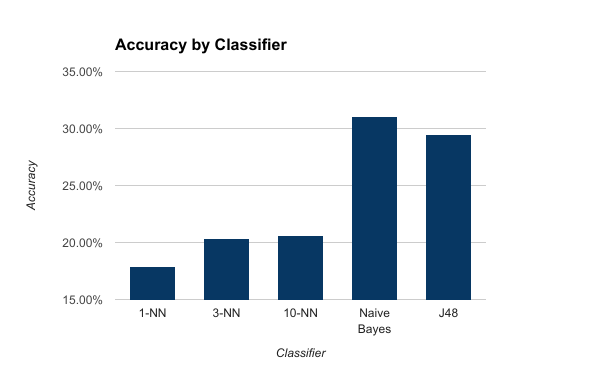
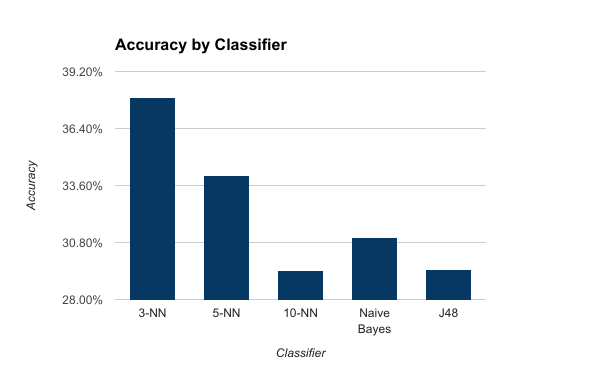
changed classifier data

diff --git a/results.html b/results.html
@@ -59,7 +59,7 @@
 
 
 									<h3 class="major">Algorithms</h3>
-									<p>A Naive Bayes classifier was used to predict the popularity of coupons, as it had the best results with the training data, getting 31.065% popularity correct, whereas the J48 decision tree predicted 29.475% of popularity categories correctly. Naive Bayes was useful because we believe that the attributes of the data are largely independent from each other.</p>
+									<p>A 3-Nearest Neighbors classifier was used to predict the popularity of coupons, as it had the best results with the training data, getting 37.91% popularity correct, whereas the next best, a Naive Bayes classifier, got only 31.07% correct. Nearest Neighbors is a commonly used algorithm for recommender systems. Since there were not many unique values for the attributes of the coupons, higher numbers of nearest neighbors produced more noise and reduced accuracy.</p>
 									<a class="image"><img src="images/classifieraccuracy.png" alt="" /></a>
 									<p><b>Figure 1.</b> 10-fold cross validation accuracy on various classifiers</p>
 									<h3 class="major">Final Results and Future Work</h3>

diff --git a/approaches.html b/approaches.html
@@ -55,7 +55,7 @@
 								<div class="inner">
 
 									<h3 class="major">Finding Popular Coupons</h3>
-									<p>In order to predict which coupons would be popular in the future, we had to determine which ones had been popular in the past. We counted up the number of purchases for each coupon in the training data, and categorized them by popularity, with 17 different categories. Using a Naive Bayes Classifier, we would predict the popularity of other coupons based on their attributes. We initially thought a k-nearest neighbors classifier would be the most appropriate, but after trying that against a few other classifiers we determined that it was less effective than we expected.</p>
+									<p>In order to predict which coupons would be popular in the future, we had to determine which ones had been popular in the past. We counted up the number of purchases for each coupon in the training data, and categorized them by popularity, with 17 different categories. Using a Nearest Neighbors, we would predict the popularity of other coupons based on their attributes.</p>
 
 
 									<h3 class="major">Recommending Coupons</h3>
